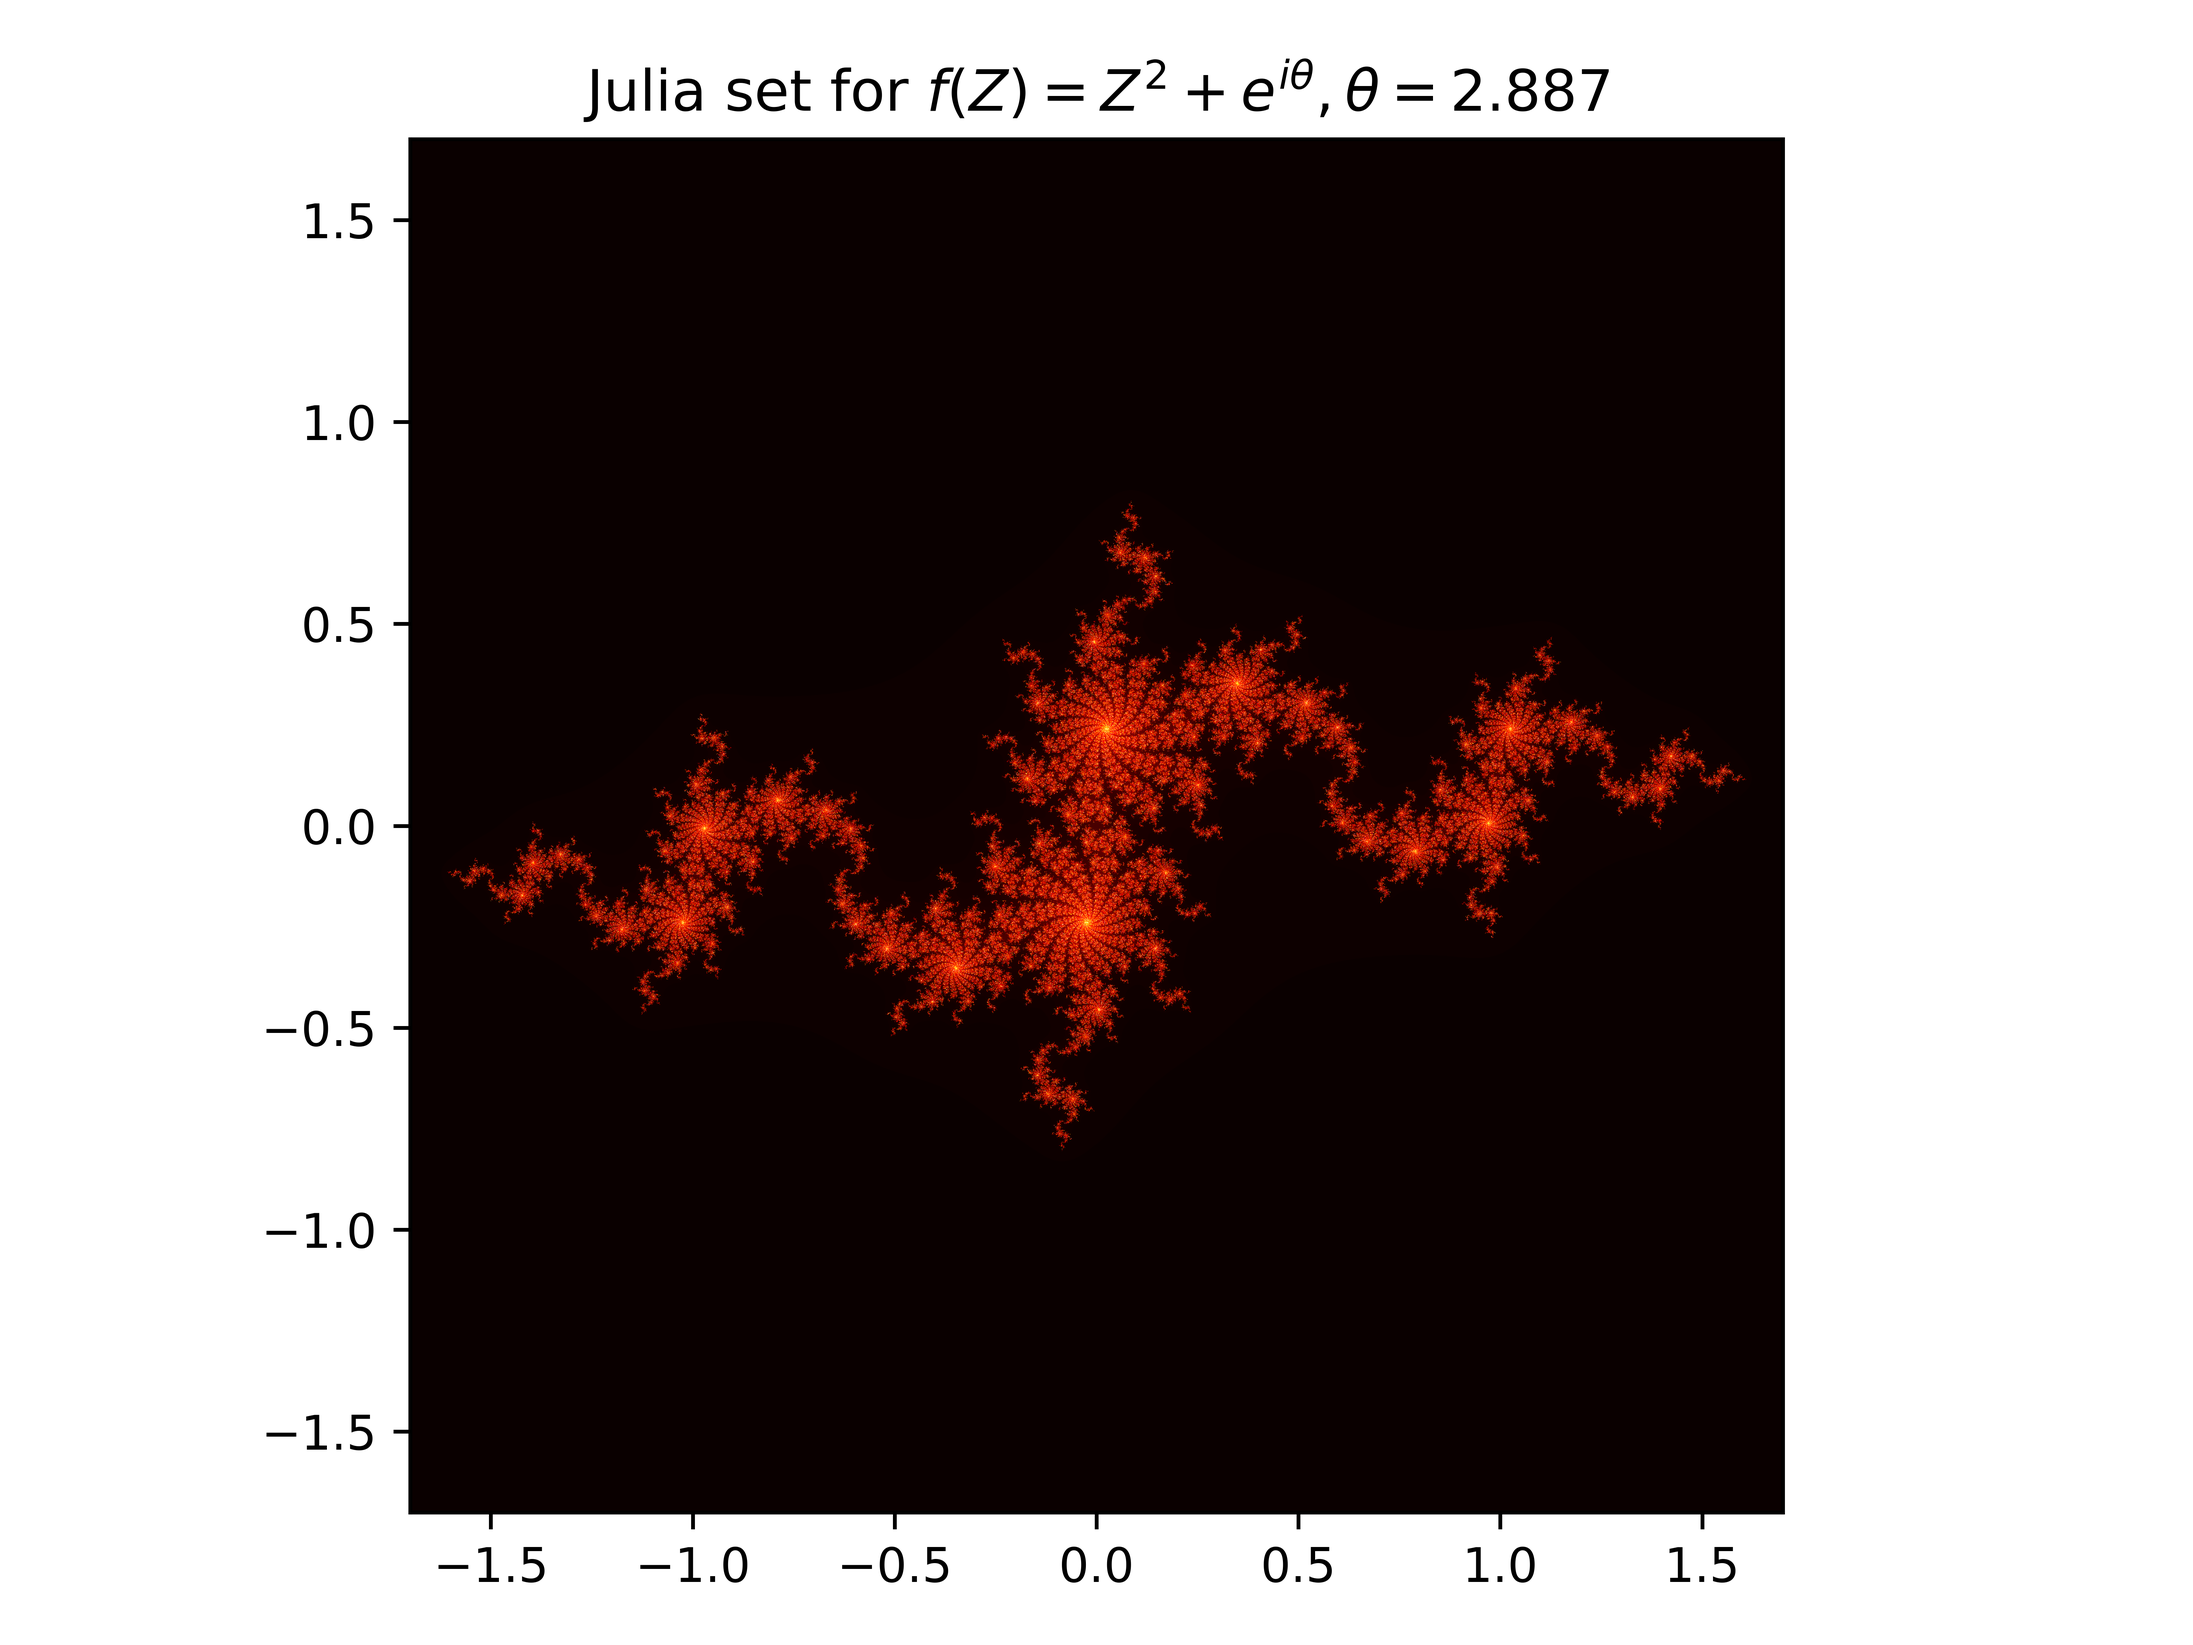
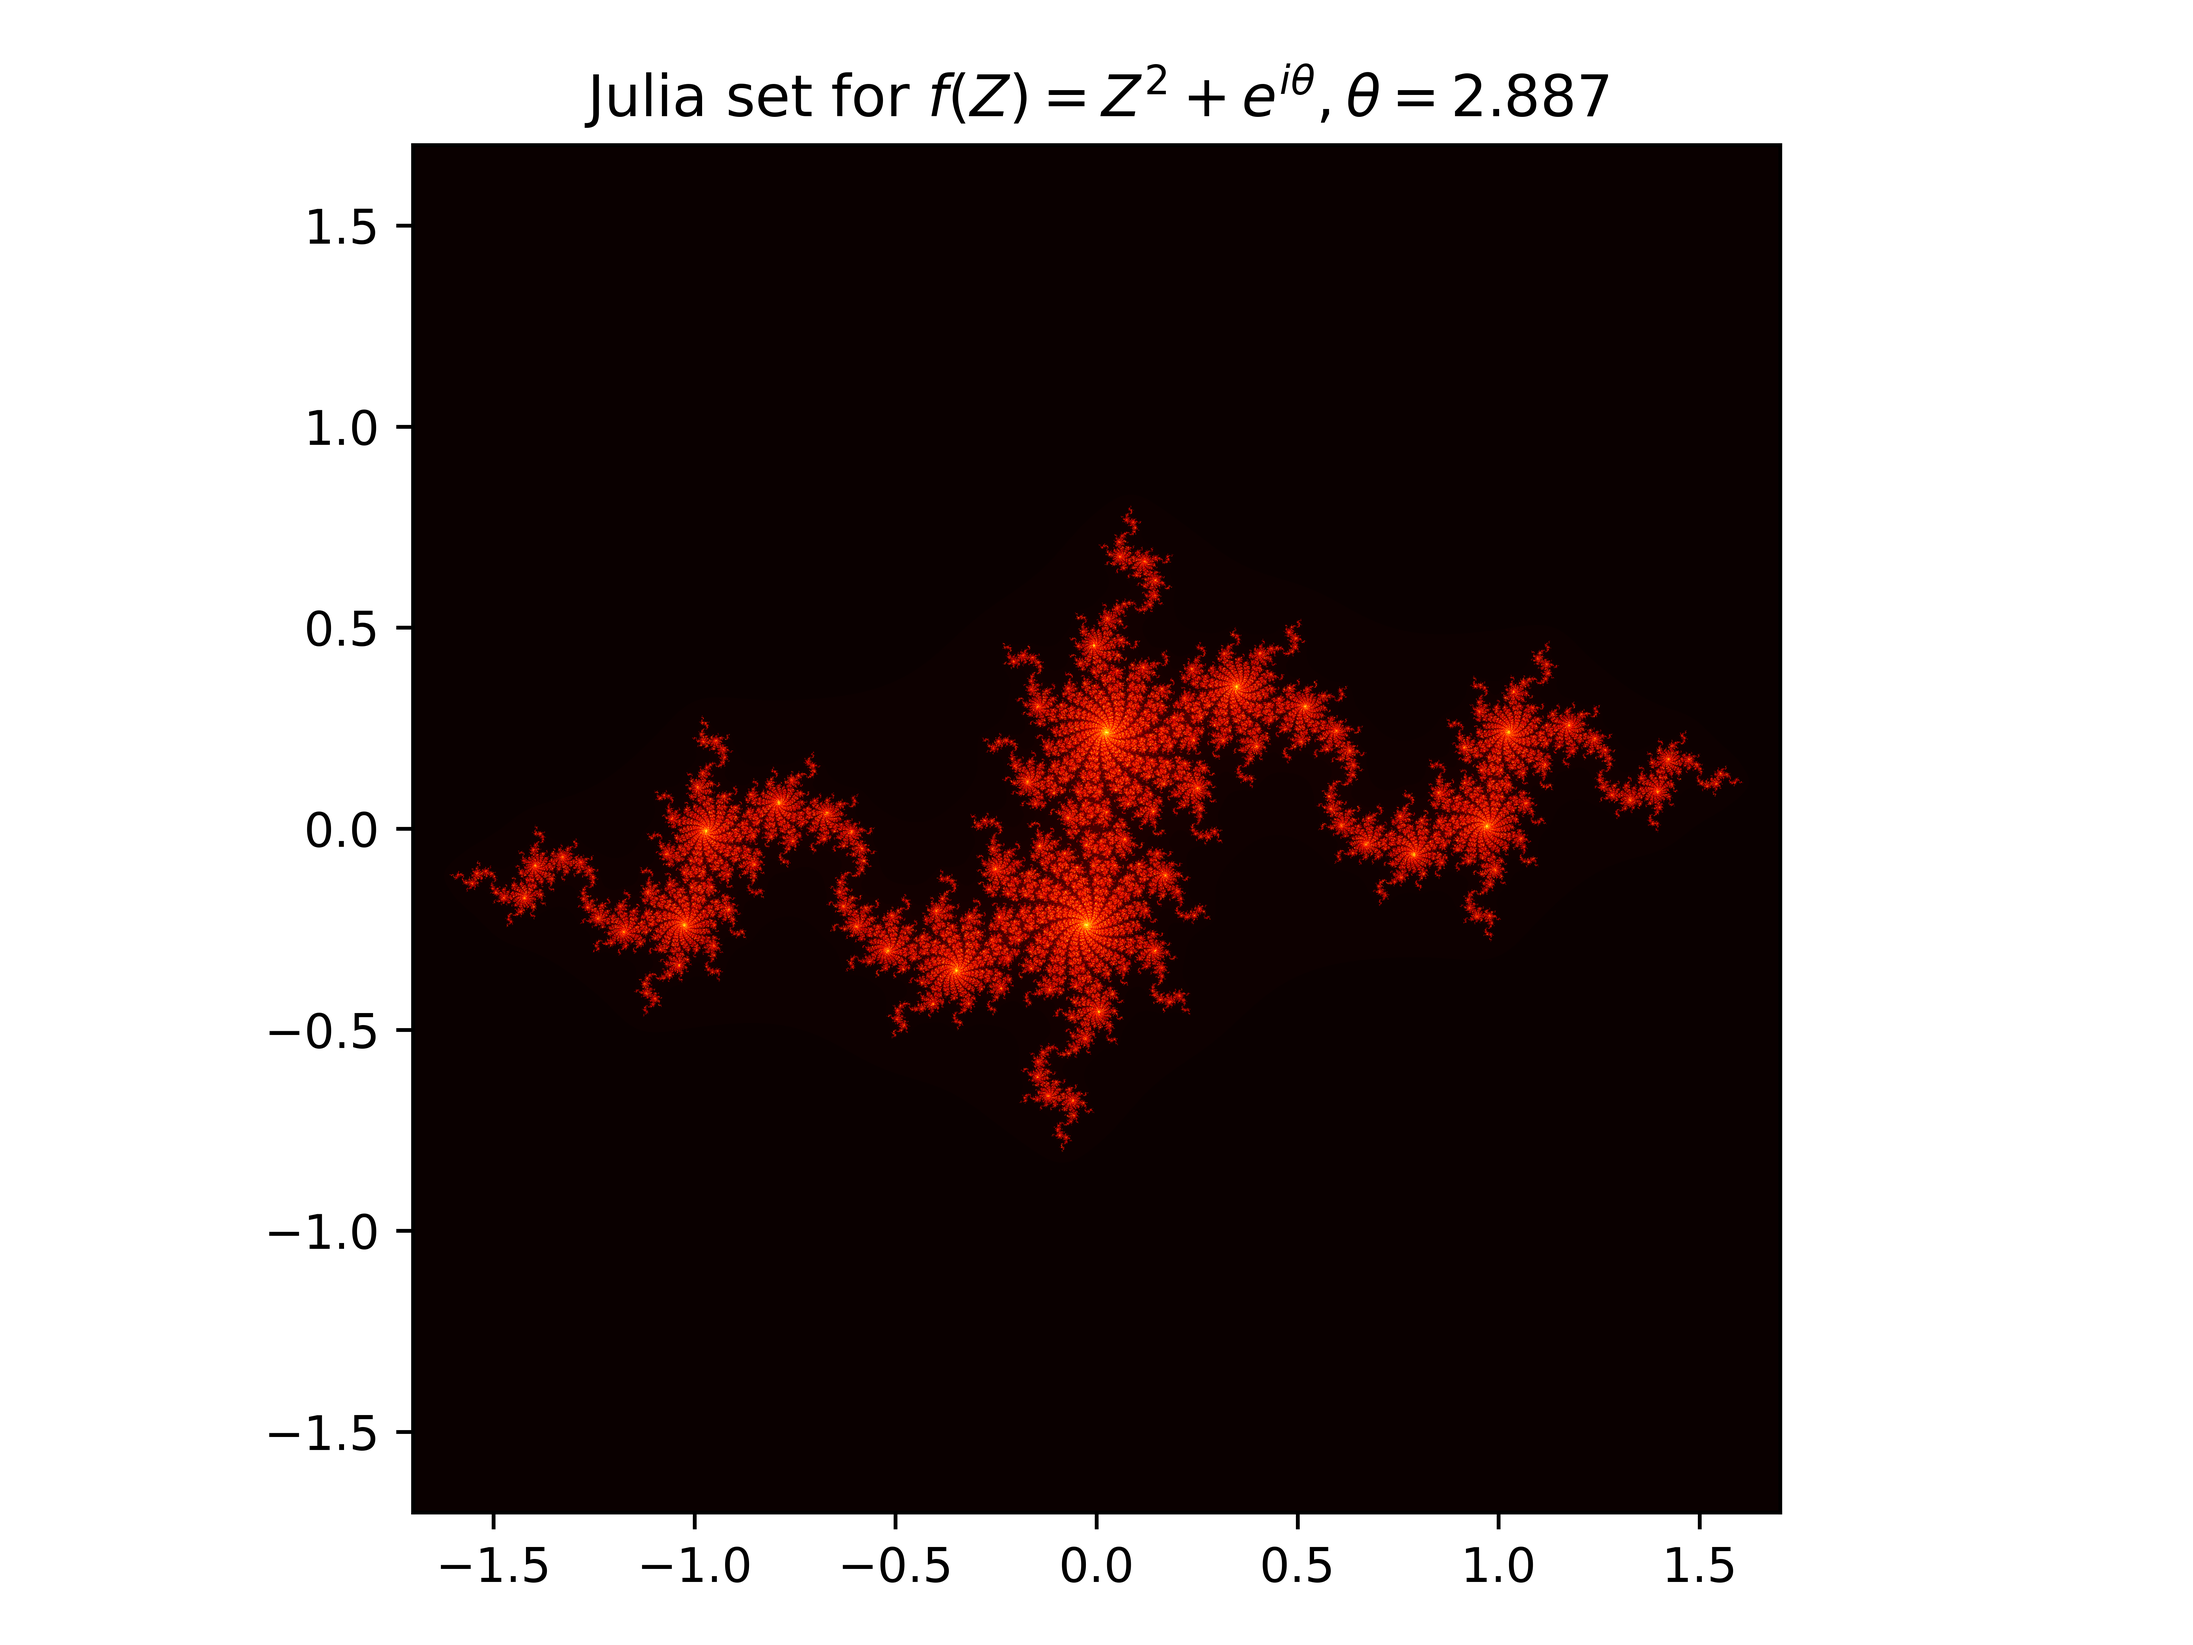
change type 'double' to 'float'; add error-checking function

diff --git a/plot.py b/plot.py
@@ -8,7 +8,7 @@ DIM = int(DIM)
 
 # load data
 print("Loading data...")
-fractal = np.fromfile("fractal.dat")
+fractal = np.fromfile("fractal.dat", dtype="float32")
 fractal = fractal.reshape([DIM, DIM])
 
 # figure plotting
